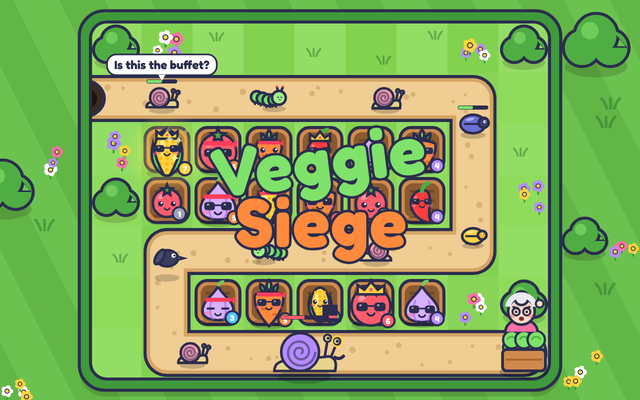
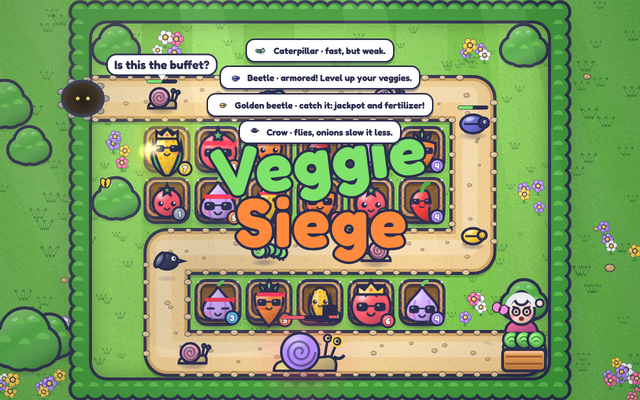
veggie-siege v0.3
Claude-Session: https://claude.ai/code/session_01V6K2mJFUTQWF5CmgrXF8xu

diff --git a/veggie-siege/index.html b/veggie-siege/index.html
@@ -1,5 +1,5 @@
 <!doctype html>
-<!-- Veggie Siege v0.2 -->
+<!-- Veggie Siege v0.3 -->
 <html lang="en">
 <head>
 <meta charset="utf-8">
@@ -194,7 +194,7 @@ button{font:inherit;color:inherit;border:none;background:none;cursor:pointer}
 <div id="load"><b>Veggie Siege</b><i></i><small id="ver0" style="color:#fff"></small></div>
 <script>
 'use strict';
-const VERSION='0.2';
+const VERSION='0.3';
 const $=id=>document.getElementById(id);
 const cv=$('c'),ctx=cv.getContext('2d');
 const TAU=Math.PI*2;
@@ -1216,7 +1216,14 @@ function bx(x){return L.bx+x*L.T}function by(y){return L.by+y*L.T}
 
 function rr(c,x,y,w,h,r){c.beginPath();c.moveTo(x+r,y);c.arcTo(x+w,y,x+w,y+h,r);c.arcTo(x+w,y+h,x,y+h,r);c.arcTo(x,y+h,x,y,r);c.arcTo(x,y,x+w,y,r);c.closePath()}
 function circ(c,x,y,r){c.beginPath();c.arc(x,y,Math.max(.1,r),0,TAU)}
-function fillO(c,col,lw){c.fillStyle=col;c.fill();if(lw){c.lineWidth=lw;c.strokeStyle=INK;c.stroke()}}
+const SHADE={r:0,lite:false};
+function fillO(c,col,lw){c.fillStyle=col;c.fill();const r=SHADE.r;
+  if(r>0&&!SHADE.lite){c.save();c.clip();
+    const g=c.createLinearGradient(-r*.6,-r*.95,r*.5,r*.95);g.addColorStop(0,'rgba(255,255,255,.42)');g.addColorStop(.34,'rgba(255,255,255,.06)');g.addColorStop(.56,'rgba(0,0,0,0)');g.addColorStop(1,'rgba(60,20,70,.42)');
+    c.fillStyle=g;c.fillRect(-r*3,-r*3,r*6,r*6);
+    const s2=c.createRadialGradient(-r*.3,-r*.42,0,-r*.3,-r*.42,r*.42);s2.addColorStop(0,'rgba(255,255,255,.5)');s2.addColorStop(1,'rgba(255,255,255,0)');c.fillStyle=s2;c.fillRect(-r*.75,-r*.85,r*.9,r*.9);
+    c.restore()}
+  if(lw){c.lineWidth=lw;c.strokeStyle=INK;c.stroke()}}
 function hash(i){return mulberry(i*2654435761>>>0)()}
 
 /* ---------- background ---------- */
@@ -1299,14 +1306,14 @@ function face(c,x,y,r,blink,opt){opt=opt||{};const ex=r*.36,ey=0,er=r*.15;
   if(opt.sad){c.arc(x,y+er*3,er*1.1,Math.PI*1.15,Math.PI*1.85)}else if(opt.open){c.fillStyle='#7a2b3a';c.ellipse(x,y+er*1.9,er*.9,er*1.1,0,0,TAU);c.fill()}else c.arc(x,y+er*1.2,er*1.1,.15*Math.PI,.85*Math.PI);c.stroke()}
 
 /* ---------- veggies ---------- */
-function drawVeg(c,t,l,x,y,s,time,o){o=o||{};const lw=Math.max(1.8,s*.05);const sc=(.64+.052*l)*(o.pop!==undefined?easeBack(o.pop):1);const r=s*sc*.5;
+function drawVegRaw(c,t,l,x,y,s,time,o){o=o||{};const lw=Math.max(1.8,s*.05);const sc=(.64+.052*l)*(o.pop!==undefined?easeBack(o.pop):1);const r=s*sc*.5;const keepSh=SHADE.r;SHADE.r=r;
   const bob=Math.sin(time*3+(o.ph||0))*r*.04,sq=o.att>0?1-o.att*.6:0;const sy=1-sq*.25,sx=1+sq*.2;
   c.save();c.translate(x,y+r*.15);
   // shadow
-  c.fillStyle='rgba(0,0,0,.18)';c.beginPath();c.ellipse(0,r*.78,r*.8,r*.24,0,0,TAU);c.fill();
-  if(l>=7){const g=c.createRadialGradient(0,0,r*.3,0,0,r*1.6);g.addColorStop(0,'rgba(255,230,90,.55)');g.addColorStop(1,'rgba(255,230,90,0)');c.fillStyle=g;circ(c,0,0,r*1.6+Math.sin(time*4)*r*.1);c.fill()}
+  if(!o.noShadow){c.fillStyle='rgba(0,0,0,.18)';c.beginPath();c.ellipse(0,r*.78,r*.8,r*.24,0,0,TAU);c.fill()}
+  if(l>=7&&!o.noGlow){const g=c.createRadialGradient(0,0,r*.3,0,0,r*1.6);g.addColorStop(0,'rgba(255,230,90,.55)');g.addColorStop(1,'rgba(255,230,90,0)');c.fillStyle=g;circ(c,0,0,r*1.6+Math.sin(time*4)*r*.1);c.fill()}
   c.translate(0,bob);c.scale(sx,sy);
-  const blink=((time+(o.ph||0)*3)%4.2)<.12;const fo={glasses:l>=4,angry:o.att>0&&l<4};
+  const blink=o.blink!=null?o.blink:((time+(o.ph||0)*3)%4.2)<.12;const fo={glasses:l>=4,angry:o.att>0&&l<4};
   let fy=0,fr=r;
   if(t==='carrot'){c.beginPath();c.moveTo(-r*.62,-r*.45);c.quadraticCurveTo(-r*.7,r*.2,0,r*.92);c.quadraticCurveTo(r*.7,r*.2,r*.62,-r*.45);c.quadraticCurveTo(0,-r*.72,-r*.62,-r*.45);fillO(c,'#ff8a3d',lw);
     c.strokeStyle='#d9651f';c.lineWidth=lw*.8;c.beginPath();c.moveTo(-r*.35,r*.15);c.lineTo(-r*.1,r*.18);c.moveTo(r*.15,r*.42);c.lineTo(r*.33,r*.38);c.stroke();
@@ -1331,7 +1338,7 @@ function drawVeg(c,t,l,x,y,s,time,o){o=o||{};const lw=Math.max(1.8,s*.05);const 
   if(t==='sun'&&l>=4){fo.glasses=1}
   face(c,0,fy,fr,blink,fo);
   if(l>=6){crown(c,0,fy-fr*(t==='sun'?.55:.75)-(t==='carrot'?r*.25:0),fr*.55,lw)}
-  c.restore();
+  c.restore();SHADE.r=keepSh;
   if(!o.noBadge){const bxp=x+r*.7,byp=y+r*.75;circ(c,bxp,byp,s*.13);fillO(c,LVC[l-1],lw*.8);c.fillStyle='#fff';c.font='700 '+Math.round(s*.17)+'px Fredoka,sans-serif';c.textAlign='center';c.textBaseline='middle';c.fillText(l,bxp,byp+s*.01)}}
 function easeBack(t){t=clamp(t,0,1);const s=1.9;return 1+(s+1)*Math.pow(t-1,3)+s*Math.pow(t-1,2)}
 function leaf(c,x,y,len,a,lw,col){c.save();c.translate(x,y);c.rotate(a);c.beginPath();c.moveTo(0,0);c.quadraticCurveTo(len*.4,-len*.5,0,-len);c.quadraticCurveTo(-len*.4,-len*.5,0,0);fillO(c,col,lw);c.restore()}
@@ -1341,13 +1348,12 @@ function crown(c,x,y,r,lw){c.beginPath();c.moveTo(x-r,y+r*.4);c.lineTo(x-r,y-r*.
   c.fillStyle='#ff5d6c';circ(c,x,y+r*.05,r*.13);c.fill()}
 
 /* ---------- pests ---------- */
-function drawPest(c,p,s,time){const d=PEST[p.k];let r=d.r*s;if(p.boss)r*=1+(p.mhp>2e3?.15:0);const lw=Math.max(1.8,s*.05);const x=bx(p.x),y=by(p.y);
+function drawPestRaw(c,p,s,time){const d=PEST[p.k];let r=d.r*s;if(p.boss)r*=1+(p.mhp>2e3?.15:0);const lw=Math.max(1.8,s*.05);const x=bx(p.x),y=by(p.y);
   const w=Math.sin(time*8*p.spd+p.ph);c.save();c.translate(x,y);
   if(p.under){c.fillStyle='#8a5a30';c.beginPath();c.ellipse(0,r*.3,r*.9,r*.45,0,Math.PI,0);fillO(c,'#9b6a3d',lw);for(let i=0;i<3;i++){c.fillStyle='#6e4524';circ(c,(i-1)*r*.4,r*.05+Math.sin(time*10+i)*r*.08,r*.1);c.fill()}c.restore();return}
   if(p.hit>0){c.globalAlpha=1}
   const fl=p.dir<0?-1:1;
   // shadow
-  c.fillStyle='rgba(0,0,0,.18)';c.beginPath();c.ellipse(0,r*.75,r*.85,r*.25,0,0,TAU);c.fill();
   if(p.fly){c.translate(0,-r*.5+Math.sin(time*6+p.ph)*r*.12)}
   c.scale(fl,1);
   const flash=p.hit>0;
@@ -1409,7 +1415,7 @@ function drawCrate(c,time){const [ex,ey]=R.P.end;const x=bx(ex+.5),y=by(ey+.5),s
   rr(c,x-s*.42,y-s*.08,s*.84,s*.42,s*.08);fillO(c,'#d08a4c',lw);c.strokeStyle='#a8682f';c.lineWidth=lw*.7;c.beginPath();c.moveTo(x-s*.36,y+s*.12);c.lineTo(x+s*.36,y+s*.12);c.stroke();
   // oma
   let ox=x+s*.55,oy=y-s*.55;if(ex>=COLS-2){ox=x-s*.05;oy=y-s*.8}else if(ey===0){ox=x+s*.62;oy=y+s*.05}const mad=R.omaMad>0;drawOma(c,ox,oy,s*.42,time,mad,R.omaHappy>0)}
-function drawOma(c,x,y,r,time,mad,happy){const lw=Math.max(1.8,r*.12);const bob=Math.sin(time*(mad?14:2))*r*(mad?.06:.03);c.save();c.translate(x,y+bob);
+function drawOmaRaw(c,x,y,r,time,mad,happy){const lw=Math.max(1.8,r*.12);const bob=Math.sin(time*(mad?14:2))*r*(mad?.06:.03);c.save();c.translate(x,y+bob);
   c.beginPath();c.ellipse(0,r*.95,r*.75,r*.6,0,Math.PI,0);fillO(c,'#ff6fa8',lw);// cardigan
   circ(c,0,0,r*.62);fillO(c,'#ffd9c2',lw);
   circ(c,0,-r*.62,r*.32);fillO(c,'#e9e9f2',lw);// bun
@@ -1482,6 +1488,248 @@ function drawWorld(dt){const c=ctx;c.setTransform(L.dpr,0,0,L.dpr,0,0);
   c.restore()}
 function drawMest(c,x,y,r){const lw=Math.max(2,r*.1);c.beginPath();c.moveTo(x-r*.7,y+r*.6);c.quadraticCurveTo(x-r*.8,y-r*.4,x,y-r*.7);c.quadraticCurveTo(x+r*.8,y-r*.4,x+r*.7,y+r*.6);c.closePath();fillO(c,'#c9874a',lw);
   c.fillStyle='#fff6c2';rr(c,x-r*.45,y-r*.15,r*.9,r*.4,r*.1);c.fill();c.fillStyle='#4fae43';leaf(c,x,y-r*.05,r*.3,0,lw*.6,'#5fd06a');sparkle(c,x+r*.6,y-r*.6,r*.25)}
+
+/* ================= GFX v0.3: light, depth and a living garden =================
+   Overrides the flat v0.2 drawing with shaded, layered art. Heavy work is cached:
+   the garden is painted once per layout, every veggie pose is painted once into a sprite. */
+function hexRgb(h){h=String(h).replace('#','');return[parseInt(h.slice(0,2),16),parseInt(h.slice(2,4),16),parseInt(h.slice(4,6),16)]}
+function mixc(a,b,t){const A=hexRgb(a),B=hexRgb(b);return 'rgb('+A.map((v,i)=>Math.round(v+(B[i]-v)*t)).join(',')+')'}
+function softShadow(c,x,y,rx,ry,a){if(rx<=0)return;c.save();c.translate(x,y);c.scale(1,ry/rx);const g=c.createRadialGradient(0,0,0,0,0,rx);
+  g.addColorStop(0,'rgba(30,25,60,'+a+')');g.addColorStop(.55,'rgba(30,25,60,'+(a*.6)+')');g.addColorStop(1,'rgba(30,25,60,0)');c.fillStyle=g;c.beginPath();c.arc(0,0,rx,0,TAU);c.fill();c.restore()}
+let NOISE=null;
+function noisePat(c,amt){if(!NOISE){NOISE=document.createElement('canvas');NOISE.width=NOISE.height=128;const x=NOISE.getContext('2d');const r=mulberry(77);
+  for(let i=0;i<1400;i++){const v=r();x.fillStyle=v<.5?'rgba(255,255,255,'+(.05+r()*.08)+')':'rgba(0,30,10,'+(.05+r()*.08)+')';x.fillRect(Math.floor(r()*128),Math.floor(r()*128),1+Math.floor(r()*2),1+Math.floor(r()*2))}}
+  return c.createPattern(NOISE,'repeat')}
+const GFX={lite:false,acc:0,n:0,slow:0};
+
+/* ---------- garden scenery ---------- */
+function drawBush(c,x,y,r,pal,lw){softShadow(c,x,y+r*.72,r*1.1,r*.34,.3);
+  const blobs=[[-.45,.12,.58],[.45,.12,.58],[0,-.28,.72],[-.18,.3,.5],[.22,.32,.48]];
+  const path=()=>{c.beginPath();for(const [a,b,s2] of blobs){c.moveTo(x+a*r+s2*r,y+b*r);c.arc(x+a*r,y+b*r,s2*r,0,TAU)}};
+  path();c.lineWidth=lw*2;c.lineJoin='round';c.strokeStyle=INK;c.stroke();path();c.fillStyle=pal.tree;c.fill();
+  c.save();path();c.clip();const g=c.createLinearGradient(x-r*.6,y-r,x+r*.5,y+r*.9);g.addColorStop(0,'rgba(255,255,220,.38)');g.addColorStop(.45,'rgba(255,255,255,0)');g.addColorStop(1,'rgba(0,30,25,.38)');
+  c.fillStyle=g;c.fillRect(x-r*2,y-r*2,r*4,r*4);
+  c.fillStyle=pal.tree2;for(const [a,b,s2] of [[-.25,-.55,.26],[.25,-.62,.2],[-.62,-.02,.2],[.55,-.1,.2],[0,.05,.18]]){c.beginPath();c.arc(x+a*r,y+b*r,s2*r,Math.PI,0);c.fill()}
+  c.fillStyle='rgba(255,255,255,.35)';for(const [a,b] of [[-.3,-.7],[.2,-.75]]){c.beginPath();c.ellipse(x+a*r,y+b*r,r*.1,r*.05,-.4,0,TAU);c.fill()}
+  c.restore();
+  if(pal.snow){c.fillStyle='#fff';c.beginPath();c.ellipse(x,y-r*.86,r*.55,r*.2,0,0,TAU);c.fill();c.beginPath();c.ellipse(x-r*.5,y-r*.32,r*.3,r*.12,0,0,TAU);c.fill()}
+  else if(pal.leaves){[[.3,-.1,'#ffd23f'],[-.5,.2,'#ff8a3d'],[.05,-.5,'#ff5d6c']].forEach(([a,b,col])=>{c.fillStyle=col;c.beginPath();c.ellipse(x+a*r,y+b*r,r*.12,r*.07,a,0,TAU);c.fill()})}
+  else if(!pal.night&&(Math.floor(x*7+y*3)%3===0)){[[.35,-.05],[-.4,.15],[.05,-.45]].forEach(([a,b])=>{circ(c,x+a*r,y+b*r,r*.075);c.fillStyle='#ff5d6c';c.fill();c.lineWidth=Math.max(1,lw*.4);c.strokeStyle=INK;c.stroke();circ(c,x+a*r-r*.025,y+b*r-r*.025,r*.022);c.fillStyle='#fff';c.fill()})}}
+function drawFlowers(c,x,y,r,pal,rnd){for(let i=0;i<4;i++){const fx=x+(rnd()-.5)*r*1.6,fy=y+(rnd()-.5)*r*1.4,col=pal.fl[Math.floor(rnd()*pal.fl.length)],s=r*(.15+rnd()*.06);
+  softShadow(c,fx,fy+s*2.3,s*1.1,s*.35,.22);
+  c.strokeStyle='#3f9a3c';c.lineWidth=s*.45;c.lineCap='round';c.beginPath();c.moveTo(fx,fy);c.quadraticCurveTo(fx-s*.3,fy+s*1.2,fx,fy+s*2.3);c.stroke();
+  c.fillStyle='#5fd06a';c.beginPath();c.ellipse(fx+s*.45,fy+s*1.5,s*.45,s*.2,-.5,0,TAU);c.fill();
+  for(let k=0;k<5;k++){const a=k/5*TAU+i;const px=fx+Math.cos(a)*s,py=fy+Math.sin(a)*s;circ(c,px,py,s*.72);c.fillStyle=col;c.fill();c.lineWidth=s*.14;c.strokeStyle='rgba(43,45,78,.55)';c.stroke()}
+  for(let k=0;k<5;k++){const a=k/5*TAU+i;circ(c,fx+Math.cos(a)*s*.95-s*.15,fy+Math.sin(a)*s*.95-s*.18,s*.22);c.fillStyle='rgba(255,255,255,.55)';c.fill()}
+  const g=c.createRadialGradient(fx-s*.2,fy-s*.2,0,fx,fy,s*.65);g.addColorStop(0,'#fff3a0');g.addColorStop(1,'#f2a81f');circ(c,fx,fy,s*.6);c.fillStyle=g;c.fill();c.lineWidth=s*.22;c.strokeStyle=INK;c.stroke()}}
+function drawTuft(c,x,y,r,pal){const dark=pal.night?'#4d7f7a':pal.snow?'#b9cbe4':'rgba(40,110,40,.55)',light=pal.night?'#7fb3ac':pal.snow?'#ffffff':'rgba(200,255,150,.6)';
+  c.lineCap='round';for(let k=-1;k<=1;k++){c.strokeStyle=dark;c.lineWidth=Math.max(1.5,r*.2);c.beginPath();c.moveTo(x+k*r*.25,y+r*.3);c.quadraticCurveTo(x+k*r*.35,y-r*.1,x+k*r*.62,y-r*.38);c.stroke();
+    c.strokeStyle=light;c.lineWidth=Math.max(.8,r*.08);c.beginPath();c.moveTo(x+k*r*.27,y+r*.15);c.quadraticCurveTo(x+k*r*.34,y-r*.05,x+k*r*.5,y-r*.25);c.stroke()}}
+function drawPebble(c,x,y,r,col){softShadow(c,x,y+r*.5,r*1.2,r*.45,.25);c.beginPath();c.ellipse(x,y,r,r*.72,0,0,TAU);c.fillStyle=col;c.fill();c.lineWidth=Math.max(1,r*.22);c.strokeStyle='rgba(43,45,78,.6)';c.stroke();
+  c.fillStyle='rgba(255,255,255,.45)';c.beginPath();c.ellipse(x-r*.3,y-r*.28,r*.35,r*.18,-.3,0,TAU);c.fill()}
+
+function buildBg(){const key=L.W+'x'+L.H+'_'+L.T+'_'+L.bx+'_'+L.by+'_'+(R?R.fi:0)+'_'+L.dpr;if(bg&&bgKey===key)return;bgKey=key;
+  if(!bg)bg=document.createElement('canvas');bg.width=Math.round(L.W*L.dpr);bg.height=Math.round(L.H*L.dpr);
+  const c=bg.getContext('2d');c.setTransform(L.dpr,0,0,L.dpr,0,0);c.clearRect(0,0,L.W,L.H);const fi=R?R.fi:0,pal=PAL[fi],T=L.T,lw=Math.max(2,T*.06);
+  const F=FIELDS[fi],P=R?R.P:parseField(F);const X=L.bx,Y=L.by,W=COLS*T,H=ROWS*T;
+  let seed=fi*1000+7;const rnd=()=>{seed++;return hash(seed)};
+  // ---- outer ground: light falloff, mowing stripes, fine texture
+  let g=c.createRadialGradient(L.W*.35,L.H*.2,0,L.W*.5,L.H*.5,Math.max(L.W,L.H)*.85);g.addColorStop(0,mixc(pal.out,'#ffffff',.12));g.addColorStop(1,mixc(pal.out,'#000000',.12));
+  c.fillStyle=g;c.fillRect(0,0,L.W,L.H);
+  const st=Math.max(30,T*.9);c.save();c.globalAlpha=.55;for(let x=-L.H;x<L.W;x+=st*2){c.fillStyle=pal.out2;c.beginPath();c.moveTo(x,0);c.lineTo(x+st,0);c.lineTo(x+st+L.H*.5,L.H);c.lineTo(x+L.H*.5,L.H);c.fill()}c.restore();
+  c.fillStyle=noisePat(c);c.fillRect(0,0,L.W,L.H);
+  const inBoard=(x,y,m)=>x>X-T*m&&x<X+W+T*m&&y>Y-T*m&&y<Y+H+T*m;
+  for(let i=0;i<260;i++){const x=rnd()*L.W,y=rnd()*L.H;if(inBoard(x,y,.5))continue;drawTuft(c,x,y,T*(.14+rnd()*.12),pal)}
+  for(let i=0;i<26;i++){const x=rnd()*L.W,y=rnd()*L.H;if(inBoard(x,y,.5))continue;drawPebble(c,x,y,T*(.05+rnd()*.05),pal.peb)}
+  const deco=[];for(let i=0;i<80;i++){const x=rnd()*L.W,y=rnd()*L.H;if(inBoard(x,y,.7))continue;deco.push([y,x,rnd(),rnd()])}deco.sort((a,b)=>a[0]-b[0]);
+  for(const [y,x,k,s2] of deco){if(k<.38)drawBush(c,x,y,T*(.36+s2*.3),pal,lw);else if(k<.72)drawFlowers(c,x,y,T*.42,pal,rnd)}
+  // ---- board: hedge with leafy edge and a soft drop shadow
+  const hedge=pal.snow?'#e6eef9':pal.night?'#244a44':'#3f9a3c',hedgeL=pal.snow?'#ffffff':pal.night?'#3a6a62':'#5fbf4f';
+  c.save();c.shadowColor='rgba(20,30,40,.4)';c.shadowBlur=T*.7;c.shadowOffsetY=T*.22;rr(c,X-T*.26,Y-T*.26,W+T*.52,H+T*.52,T*.5);c.fillStyle=hedge;c.fill();c.restore();
+  const bumps=[];const per=(x0,y0,x1,y1)=>{const len=Math.hypot(x1-x0,y1-y0),n=Math.ceil(len/(T*.3));for(let i=0;i<=n;i++){bumps.push([lerp(x0,x1,i/n),lerp(y0,y1,i/n)])}};
+  const o=T*.2;per(X-o,Y-o,X+W+o,Y-o);per(X+W+o,Y-o,X+W+o,Y+H+o);per(X+W+o,Y+H+o,X-o,Y+H+o);per(X-o,Y+H+o,X-o,Y-o);
+  c.beginPath();for(const [bx2,by2] of bumps){c.moveTo(bx2+T*.17,by2);c.arc(bx2,by2,T*.17,0,TAU)}c.lineWidth=lw*2;c.strokeStyle=INK;c.stroke();
+  rr(c,X-T*.24,Y-T*.24,W+T*.48,H+T*.48,T*.45);c.fillStyle=hedge;c.fill();
+  c.beginPath();for(const [bx2,by2] of bumps){c.moveTo(bx2+T*.17,by2);c.arc(bx2,by2,T*.17,0,TAU)}c.fillStyle=hedge;c.fill();
+  c.fillStyle=hedgeL;for(const [bx2,by2] of bumps){c.beginPath();c.arc(bx2-T*.03,by2-T*.04,T*.1,Math.PI*1.05,Math.PI*1.95);c.fill()}
+  // ---- lawn
+  c.save();rr(c,X,Y,W,H,T*.32);c.clip();
+  g=c.createLinearGradient(X,Y,X+W*.6,Y+H);g.addColorStop(0,mixc(pal.g1,'#ffffff',.04));g.addColorStop(1,mixc(pal.g1,'#000000',.1));c.fillStyle=g;c.fillRect(X,Y,W,H);
+  c.globalAlpha=1;for(let x=0;x<COLS;x++){if(x%2){c.fillStyle=mixc(pal.g2,'#000000',.05);c.fillRect(X+x*T,Y,T,H)}}c.globalAlpha=1;
+  c.fillStyle=noisePat(c);c.fillRect(X,Y,W,H);
+  for(let i=0;i<COLS*ROWS*3;i++){const x=X+rnd()*W,y=Y+rnd()*H;drawTuft(c,x,y,T*(.09+rnd()*.07),pal)}
+  // water tiles
+  for(let y=0;y<ROWS;y++)for(let x=0;x<COLS;x++){const ch=P.g[y*COLS+x];if(ch!=='W')continue;const cx=X+(x+.5)*T,cy=Y+(y+.5)*T;seed=fi*999+y*31+x*7;
+    const isW=(xx,yy)=>xx>=0&&yy>=0&&xx<COLS&&yy<ROWS&&P.g[yy*COLS+xx]==='W';const m=T*.06;const l=isW(x-1,y)?-1:m,r2=isW(x+1,y)?-1:m,tp=isW(x,y-1)?-1:m,bt=isW(x,y+1)?-1:m;
+    rr(c,X+x*T+l,Y+y*T+tp,T-l-r2,T-tp-bt,(l<0||r2<0||tp<0||bt<0)?T*.12:T*.3);const wg=c.createLinearGradient(0,Y+y*T,0,Y+(y+1)*T);wg.addColorStop(0,'#3aa8f0');wg.addColorStop(1,'#6fd3ff');c.fillStyle=wg;c.fill();
+    c.strokeStyle='rgba(255,255,255,.5)';c.lineWidth=T*.025;c.lineCap='round';for(let k=0;k<2;k++){const yy=cy-T*.15+k*T*.25;c.beginPath();c.moveTo(cx-T*.25+k*T*.1,yy);c.quadraticCurveTo(cx,yy-T*.05,cx+T*.2,yy);c.stroke()}
+    if(rnd()<.5){const px=cx+T*.16,py=cy+T*.14;c.beginPath();c.arc(px,py,T*.14,.4,TAU-.1);c.lineTo(px,py);c.closePath();c.fillStyle='#5fd06a';c.fill();c.lineWidth=lw*.6;c.strokeStyle=INK;c.stroke();if(rnd()<.6){circ(c,px-T*.04,py-T*.03,T*.045);c.fillStyle='#ff9fd0';c.fill()}}}
+  // inner shadow along the hedge
+  c.save();c.shadowColor='rgba(0,30,10,.45)';c.shadowBlur=T*.35;rr(c,X-T*.1,Y-T*.1,W+T*.2,H+T*.2,T*.4);c.lineWidth=T*.2;c.strokeStyle=hedge;c.stroke();c.restore();
+  // ---- path: drop shadow, outline, edge, sand, texture, kerb stones
+  for(const pth of P.paths){const pts=pth.pts.map(p=>[X+p[0]*T,Y+p[1]*T]);c.lineCap='round';c.lineJoin='round';
+    const stroke=(w,col,dx,dy)=>{c.beginPath();c.moveTo(pts[0][0]+(dx||0),pts[0][1]+(dy||0));for(const p of pts)c.lineTo(p[0]+(dx||0),p[1]+(dy||0));c.lineWidth=w;c.strokeStyle=col;c.stroke()};
+    c.save();c.globalAlpha=.25;stroke(T*.86,'#1e2a1a',0,T*.08);c.restore();
+    stroke(T*.8+lw*2,INK);stroke(T*.8,pal.pathE);stroke(T*.68,pal.path);
+    c.save();c.globalAlpha=.6;stroke(T*.68,noisePat(c));c.restore();
+    c.save();c.globalAlpha=.25;stroke(T*.3,'#ffffff',-T*.06,-T*.08);c.restore()}
+  for(const pth of P.paths){for(let s=.3;s<pth.len;s+=.42){const pp=pathPos(pth,s);seed=Math.floor(s*100)+fi;const ox=(rnd()-.5)*T*.4,oy=(rnd()-.5)*T*.4;
+      drawPebble(c,X+pp[0]*T+ox,Y+pp[1]*T+oy,T*(.025+rnd()*.03),pal.peb)}
+    for(let s=.7;s<pth.len-.4;s+=.34){const a=pathPos(pth,s-.05),b=pathPos(pth,s+.05);let dx=b[0]-a[0],dy=b[1]-a[1];const d=Math.hypot(dx,dy)||1;dx/=d;dy/=d;
+      for(const sg of [-1,1]){const px=X+(a[0]+b[0])/2*T-dy*sg*T*.41,py=Y+(a[1]+b[1])/2*T+dx*sg*T*.41;let dmin=9;for(const q of P.paths)for(let k=1;k<q.pts.length;k++){const ax=X+q.pts[k-1][0]*T,ay=Y+q.pts[k-1][1]*T,bx3=X+q.pts[k][0]*T,by3=Y+q.pts[k][1]*T;const vx=bx3-ax,vy=by3-ay,l2=vx*vx+vy*vy||1;const tt=clamp(((px-ax)*vx+(py-ay)*vy)/l2,0,1);dmin=Math.min(dmin,Math.hypot(px-ax-vx*tt,py-ay-vy*tt)/T)}if(dmin<.38)continue;
+        seed=Math.floor(s*1000)+sg;drawPebble(c,px,py,T*(.055+rnd()*.02),mixc(pal.peb,'#ffffff',.2))}}}
+  // ---- planters: wooden box with depth, grain, nails and crumbly soil
+  for(const i of P.beds){const x=i%COLS,y=Math.floor(i/COLS);const px=X+x*T,py=Y+y*T,m=T*.07,d=T*.09,bw=T-2*m,bh=T-2*m-d;
+    softShadow(c,px+T*.5,py+T*.9,T*.52,T*.16,.35);
+    rr(c,px+m,py+m+d,bw,bh,T*.2);c.fillStyle=mixc(pal.wood,'#000000',.32);c.fill();c.lineWidth=lw;c.strokeStyle=INK;c.stroke();
+    rr(c,px+m,py+m,bw,bh,T*.2);g=c.createLinearGradient(0,py+m,0,py+m+bh);g.addColorStop(0,mixc(pal.wood,'#ffffff',.25));g.addColorStop(1,pal.wood);c.fillStyle=g;c.fill();c.lineWidth=lw;c.strokeStyle=INK;c.stroke();
+    c.save();rr(c,px+m,py+m,bw,bh,T*.2);c.clip();c.strokeStyle=mixc(pal.wood,'#000000',.2);c.lineWidth=Math.max(1,T*.015);for(let k=0;k<5;k++){const yy=py+m+bh*(k+.5)/5;c.beginPath();c.moveTo(px+m,yy);c.bezierCurveTo(px+T*.35,yy-T*.02,px+T*.6,yy+T*.02,px+T-m,yy);c.stroke()}c.restore();
+    const ix=px+m*2.4,iy=py+m*2.2,iw=T-4.8*m,ih=bh-m*2.6;rr(c,ix,iy,iw,ih,T*.14);g=c.createRadialGradient(ix+iw*.5,iy+ih*.6,0,ix+iw*.5,iy+ih*.5,iw*.7);g.addColorStop(0,mixc(pal.soil,'#ffffff',.08));g.addColorStop(1,pal.soil2);c.fillStyle=g;c.fill();
+    c.save();rr(c,ix,iy,iw,ih,T*.14);c.clip();c.fillStyle='rgba(0,0,0,.28)';c.fillRect(ix,iy,iw,T*.06);seed=i*17+fi;
+      for(let k=0;k<12;k++){circ(c,ix+rnd()*iw,iy+T*.06+rnd()*(ih-T*.06),T*(.012+rnd()*.018));c.fillStyle=rnd()<.5?'rgba(0,0,0,.22)':'rgba(255,230,200,.18)';c.fill()}c.restore();
+    c.lineWidth=Math.max(1,lw*.6);c.strokeStyle=INK;rr(c,ix,iy,iw,ih,T*.14);c.stroke();
+    c.fillStyle='#d9dbe8';for(const [nx,ny] of [[px+m*1.6,py+m*1.4],[px+T-m*1.6,py+m*1.4]]){circ(c,nx,ny,T*.022);c.fill()}
+    if(pal.snow){c.fillStyle='rgba(255,255,255,.92)';c.beginPath();c.ellipse(px+T*.32,py+m*1.2,T*.17,T*.05,0,0,TAU);c.fill();c.beginPath();c.ellipse(px+T*.68,py+m*1.1,T*.1,T*.04,0,0,TAU);c.fill()}}
+  // ---- trees, flowers (y-sorted) and tunnels
+  const tops=[];for(let y=0;y<ROWS;y++)for(let x=0;x<COLS;x++){const ch=P.g[y*COLS+x];if(ch==='T'||ch==='F')tops.push([y,x,ch])}
+  for(const [y,x,ch] of tops){const cx=X+(x+.5)*T,cy=Y+(y+.5)*T;seed=fi*555+y*13+x*3;if(ch==='T')drawBush(c,cx,cy,T*.42,pal,lw);else drawFlowers(c,cx,cy,T*.42,pal,rnd)}
+  if(pal.glass){c.strokeStyle='rgba(255,255,255,.35)';c.lineWidth=T*.06;for(let x=1;x<COLS;x+=2){c.beginPath();c.moveTo(X+x*T,Y);c.lineTo(X+x*T,Y+H);c.stroke()}
+    g=c.createLinearGradient(X,Y,X+W,Y+H);g.addColorStop(0,'rgba(255,255,255,.2)');g.addColorStop(.5,'rgba(255,255,255,0)');g.addColorStop(1,'rgba(255,255,255,.12)');c.fillStyle=g;c.fillRect(X,Y,W,H)}
+  if(pal.night){g=c.createRadialGradient(X+W*.5,Y+H*.4,T,X+W*.5,Y+H*.5,W*.7);g.addColorStop(0,'rgba(120,140,255,.1)');g.addColorStop(1,'rgba(10,10,40,.3)');c.fillStyle=g;c.fillRect(X,Y,W,H)}
+  c.restore();
+  rr(c,X,Y,W,H,T*.32);c.lineWidth=lw;c.strokeStyle=INK;c.stroke();
+  for(const [sx,sy] of P.starts){const p0=P.paths.find(p=>p.pts[1][0]===sx+.5&&p.pts[1][1]===sy+.5)||P.paths[0];const e=p0.pts[0];
+    const ex=X+clamp(e[0],-.15,COLS+.15)*T,ey=Y+clamp(e[1],-.15,ROWS+.15)*T;
+    seed=sx*7+sy;for(let k=0;k<9;k++){const a=k/9*TAU;drawPebble(c,ex+Math.cos(a)*T*.44,ey+Math.sin(a)*T*.38,T*.08,'#a7a29a')}
+    c.beginPath();c.ellipse(ex,ey,T*.4,T*.34,0,0,TAU);g=c.createRadialGradient(ex,ey+T*.05,0,ex,ey,T*.42);g.addColorStop(0,'#0c0806');g.addColorStop(.7,'#2a1d15');g.addColorStop(1,'#4a3424');c.fillStyle=g;c.fill();c.lineWidth=lw;c.strokeStyle=INK;c.stroke();
+    for(const sg of [-1,1]){circ(c,ex+sg*T*.1,ey,T*.035);c.fillStyle='#ffe36b';c.fill()}}
+  // ---- global light: warm sun from the top-left, soft vignette
+  g=c.createRadialGradient(L.W*.18,-L.H*.05,0,L.W*.18,-L.H*.05,Math.max(L.W,L.H)*.9);g.addColorStop(0,pal.night?'rgba(160,180,255,.12)':'rgba(255,248,200,.14)');g.addColorStop(1,'rgba(255,248,200,0)');c.fillStyle=g;c.fillRect(0,0,L.W,L.H);
+  g=c.createRadialGradient(L.W/2,L.H/2,Math.min(L.W,L.H)*.42,L.W/2,L.H/2,Math.max(L.W,L.H)*.78);g.addColorStop(0,'rgba(0,0,0,0)');g.addColorStop(1,pal.night?'rgba(5,5,25,.45)':'rgba(10,40,20,.28)');c.fillStyle=g;c.fillRect(0,0,L.W,L.H)}
+
+/* ---------- veggies: painted once per pose, then reused ---------- */
+const VSPR=new Map();
+function vegSprite(t,l,blink,att,s){const dpr=L.dpr||1;const key=t+l+(blink?'b':'')+(att?'a':'')+'_'+Math.round(s*dpr);let sp=VSPR.get(key);if(sp)return sp;
+  if(VSPR.size>320)VSPR.clear();const pad=s*1.15,sz=Math.ceil(pad*2*dpr);const cv2=document.createElement('canvas');cv2.width=cv2.height=sz;const x=cv2.getContext('2d');x.scale(dpr,dpr);
+  drawVegRaw(x,t,l,pad,pad,s,0,{noBadge:1,noShadow:1,noGlow:1,blink,att:att?1e-4:0,ph:0});sp={c:cv2,sz:sz/dpr,o:pad};VSPR.set(key,sp);return sp}
+function drawVeg(c,t,l,x,y,s,time,o){o=o||{};
+  const pop=o.pop!==undefined?easeBack(o.pop):1,r0=s*(.64+.052*l)*.5,r=r0*pop;
+  if(!o.noShadow)softShadow(c,x,y+r*.95,r*.95,r*.3,.34);
+  if(l>=7&&!o.noGlow){const g=c.createRadialGradient(x,y,r*.2,x,y,r*1.8);g.addColorStop(0,'rgba(255,230,90,.6)');g.addColorStop(1,'rgba(255,230,90,0)');c.fillStyle=g;circ(c,x,y+r*.1,r*1.8+Math.sin(time*4)*r*.12);c.fill()}
+  if(t==='sun'||c!==ctx){drawVegRaw(c,t,l,x,y,s,time,Object.assign({},o,{noShadow:1,noGlow:1}));return}
+  const bob=Math.sin(time*3+(o.ph||0))*r*.04,sq=o.att>0?1-o.att*.6:0,sy=1-sq*.25,sx=1+sq*.2;
+  const blink=((time+(o.ph||0)*3)%4.2)<.12;const sp=vegSprite(t,l,blink,o.att>0,s);
+  c.save();c.translate(x,y+r*.15+bob);c.scale(sx*pop,sy*pop);c.drawImage(sp.c,-sp.o,-sp.o-r0*.15,sp.sz,sp.sz);c.restore();
+  if(!o.noBadge){const lw=Math.max(1.8,s*.05),bxp=x+r*.7,byp=y+r*.75,br=s*.13;circ(c,bxp,byp,br);c.fillStyle=LVC[l-1];c.fill();
+    const g=c.createRadialGradient(bxp-br*.35,byp-br*.45,0,bxp,byp,br);g.addColorStop(0,'rgba(255,255,255,.55)');g.addColorStop(.6,'rgba(255,255,255,0)');g.addColorStop(1,'rgba(0,0,0,.18)');c.fillStyle=g;c.fill();
+    c.lineWidth=lw*.8;c.strokeStyle=INK;c.stroke();c.fillStyle='#fff';c.font='700 '+Math.round(s*.17)+'px Fredoka,sans-serif';c.textAlign='center';c.textBaseline='middle';
+    c.lineWidth=s*.035;c.strokeStyle='rgba(43,45,78,.6)';c.strokeText(l,bxp,byp+s*.01);c.fillText(l,bxp,byp+s*.01)}}
+
+/* ---------- pests, grandma and her crate ---------- */
+function drawPest(c,p,s,time){const d=PEST[p.k];const r=d.r*s*(p.boss&&p.mhp>2e3?1.15:1);
+  if(!p.under)softShadow(c,bx(p.x),by(p.y)+r*.8,r*(p.fly?.75:1),r*(p.fly?.22:.3),p.fly?.16:.32);
+  if(p.boss&&!p.under){const g=c.createRadialGradient(bx(p.x),by(p.y),r*.3,bx(p.x),by(p.y),r*1.9);g.addColorStop(0,'rgba(255,80,120,.22)');g.addColorStop(1,'rgba(255,80,120,0)');c.fillStyle=g;circ(c,bx(p.x),by(p.y),r*1.9);c.fill()}
+  const keep=SHADE.r;SHADE.r=r;SHADE.lite=GFX.lite;try{drawPestRaw(c,p,s,time)}finally{SHADE.r=keep;SHADE.lite=false}}
+function drawOma(c,x,y,r,time,mad,happy){const keep=SHADE.r;c.save();c.translate(x,y);SHADE.r=r;try{drawOmaRaw(c,0,0,r,time,mad,happy)}finally{SHADE.r=keep;c.restore()}}
+function drawCrate(c,time){const [ex,ey]=R.P.end;const x=bx(ex+.5),y=by(ey+.5),s=L.T,lw=Math.max(2,s*.055);
+  softShadow(c,x,y+s*.36,s*.55,s*.17,.38);
+  const n=Math.min(6,Math.ceil(R.lives/Math.max(1,R.lives0)*6));
+  for(let i=0;i<n;i++){const lx=x+(i%3-1)*s*.24,ly=y-s*.12-Math.floor(i/3)*s*.15,lr=s*.17;
+    circ(c,lx,ly,lr);const g=c.createRadialGradient(lx-lr*.35,ly-lr*.4,0,lx,ly,lr);g.addColorStop(0,'#d4ffb0');g.addColorStop(.55,'#7ee26b');g.addColorStop(1,'#3f9a3c');c.fillStyle=g;c.fill();c.lineWidth=lw*.8;c.strokeStyle=INK;c.stroke();
+    c.strokeStyle='#3f9a3c';c.lineWidth=lw*.55;c.beginPath();c.arc(lx,ly+s*.03,s*.09,Math.PI*1.1,Math.PI*1.9);c.stroke();c.beginPath();c.arc(lx,ly+s*.07,s*.05,Math.PI*1.15,Math.PI*1.85);c.stroke()}
+  rr(c,x-s*.42,y-s*.08,s*.84,s*.42,s*.08);const g=c.createLinearGradient(0,y-s*.08,0,y+s*.34);g.addColorStop(0,'#f0a965');g.addColorStop(1,'#b8733a');c.fillStyle=g;c.fill();c.lineWidth=lw;c.strokeStyle=INK;c.stroke();
+  c.strokeStyle='#8f5527';c.lineWidth=lw*.6;c.beginPath();c.moveTo(x-s*.36,y+s*.06);c.lineTo(x+s*.36,y+s*.06);c.moveTo(x-s*.36,y+s*.2);c.lineTo(x+s*.36,y+s*.2);c.stroke();
+  c.fillStyle='rgba(255,255,255,.3)';rr(c,x-s*.38,y-s*.05,s*.76,s*.05,s*.02);c.fill();
+  let ox=x+s*.55,oy=y-s*.55;if(ex>=COLS-2){ox=x-s*.05;oy=y-s*.8}else if(ey===0){ox=x+s*.62;oy=y+s*.05}
+  softShadow(c,ox,oy+s*.62,s*.32,s*.1,.25);drawOma(c,ox,oy,s*.42,time,R.omaMad>0,R.omaHappy>0)}
+
+/* ---------- projectiles ---------- */
+function drawShot(c,s){const X=bx(s.x),Y=by(s.y),T=L.T,lw=Math.max(1.5,T*.04);
+  if(s.k==='dart'){c.save();c.translate(X,Y);c.rotate(s.ang||0);const g=c.createLinearGradient(-T*.55,0,-T*.1,0);g.addColorStop(0,'rgba(255,200,140,0)');g.addColorStop(1,'rgba(255,220,170,.75)');
+    c.fillStyle=g;c.beginPath();c.moveTo(-T*.1,-T*.04);c.lineTo(-T*.55,0);c.lineTo(-T*.1,T*.04);c.fill();
+    c.beginPath();c.moveTo(T*.19,0);c.lineTo(-T*.1,-T*.065);c.lineTo(-T*.1,T*.065);c.closePath();const g2=c.createLinearGradient(0,-T*.07,0,T*.07);g2.addColorStop(0,'#ffb877');g2.addColorStop(1,'#e8661f');c.fillStyle=g2;c.fill();c.lineWidth=lw;c.strokeStyle=INK;c.stroke();
+    c.fillStyle='#5fd06a';c.beginPath();c.moveTo(-T*.1,0);c.lineTo(-T*.21,-T*.08);c.lineTo(-T*.17,0);c.lineTo(-T*.21,T*.08);c.closePath();c.fill();c.lineWidth=lw*.7;c.stroke();c.restore()}
+  else if(s.k==='pop'){const a=s.t*14;c.save();c.translate(X,Y);c.rotate(a);for(const [dx,dy,rr2] of [[-.04,-.02,.05],[.035,-.03,.045],[0,.035,.05]]){circ(c,dx*T,dy*T,rr2*T);c.fillStyle='#fffbe6';c.fill();c.lineWidth=lw*.6;c.strokeStyle=INK;c.stroke()}
+    circ(c,0,0,T*.025);c.fillStyle='#ffd23f';c.fill();c.restore()}
+  else if(s.k==='fire'){c.save();c.globalCompositeOperation='lighter';let g=c.createRadialGradient(X,Y,0,X,Y,T*.3);g.addColorStop(0,'rgba(255,190,80,.9)');g.addColorStop(1,'rgba(255,60,20,0)');c.fillStyle=g;circ(c,X,Y,T*.3);c.fill();c.restore();
+    circ(c,X,Y,T*.1);g=c.createRadialGradient(X-T*.03,Y-T*.03,0,X,Y,T*.11);g.addColorStop(0,'#fff6c2');g.addColorStop(.5,'#ffb02e');g.addColorStop(1,'#ff3d3d');c.fillStyle=g;c.fill();
+    if(Math.random()<.5)fx('ember',s.x,s.y,{vy:-.4,vx:fxr(-.3,.3),life:.4,sz:.05})}
+  else if(s.k==='lob'||s.k==='slam'){const rr2=T*(s.k==='lob'?.13:.18);softShadow(c,bx(lerp(s.sx,s.tx,Math.min(1,s.t/s.ft))),by(lerp(s.sy,s.ty,Math.min(1,s.t/s.ft)))+T*.15,rr2,rr2*.35,.25);
+    circ(c,X,Y,rr2);const g=c.createRadialGradient(X-rr2*.35,Y-rr2*.4,0,X,Y,rr2);g.addColorStop(0,s.k==='lob'?'#ffc0c6':'#ffd59a');g.addColorStop(.5,s.k==='lob'?'#ff5d6c':'#ff9a1f');g.addColorStop(1,s.k==='lob'?'#c93545':'#c76a10');c.fillStyle=g;c.fill();
+    c.lineWidth=lw;c.strokeStyle=INK;c.stroke();c.fillStyle=s.k==='lob'?'#4fae43':'#8a5a30';c.beginPath();c.ellipse(X,Y-rr2*.85,rr2*.3,rr2*.15,0,0,TAU);c.fill()}}
+
+/* ---------- effects ---------- */
+function drawFX(c,dt){const T=L.T;for(let i=FX.length-1;i>=0;i--){const f=FX[i];f.t+=dt;if(f.t>=f.life){FX.splice(i,1);continue}const u=f.t/f.life;
+  f.x+=f.vx*dt;f.y+=f.vy*dt;if(f.g)f.vy+=f.g*dt;const X=f.scr?f.x:bx(f.x),Y=f.scr?f.y:by(f.y);
+  if(f.k==='puff'){const rr2=f.sz*T*(1+u*1.2);c.globalAlpha=(1-u)*.9;const g=c.createRadialGradient(X-rr2*.3,Y-rr2*.3,0,X,Y,rr2);g.addColorStop(0,'#ffffff');g.addColorStop(.35,f.col);g.addColorStop(1,'rgba(255,255,255,0)');c.fillStyle=g;circ(c,X,Y,rr2);c.fill();c.globalAlpha=1}
+  else if(f.k==='dot'){c.globalAlpha=1-u;circ(c,X,Y,f.sz*T);c.fillStyle=f.col;c.fill();c.globalAlpha=1}
+  else if(f.k==='ember'){c.save();c.globalCompositeOperation='lighter';c.globalAlpha=1-u;circ(c,X,Y,f.sz*T*(1-u*.5));c.fillStyle='#ffb02e';c.fill();c.restore()}
+  else if(f.k==='ring'){c.save();c.globalAlpha=(1-u);circ(c,X,Y,f.sz*T*(.3+u));c.lineWidth=T*.1*(1-u)+1;c.strokeStyle=f.col;c.shadowColor=f.col;c.shadowBlur=T*.25;c.stroke();c.restore()}
+  else if(f.k==='star'){const s2=f.sz*T*(1-u*.5);c.save();c.globalAlpha=1-u;c.globalCompositeOperation='lighter';const g=c.createRadialGradient(X,Y,0,X,Y,s2*1.8);g.addColorStop(0,'rgba(255,240,150,.8)');g.addColorStop(1,'rgba(255,240,150,0)');c.fillStyle=g;circ(c,X,Y,s2*1.8);c.fill();c.restore();
+    c.globalAlpha=1-u;sparkle(c,X,Y,s2);c.globalAlpha=1}
+  else if(f.k==='shine'){c.save();c.translate(X,Y);c.rotate(f.t*1.5);c.globalCompositeOperation='lighter';c.globalAlpha=(1-u)*.7;for(let k=0;k<10;k++){c.rotate(TAU/10);const g=c.createLinearGradient(0,0,0,-f.sz*T);g.addColorStop(0,f.col);g.addColorStop(1,'rgba(255,255,255,0)');c.fillStyle=g;c.beginPath();c.moveTo(-T*.05,0);c.lineTo(0,-f.sz*T*(.6+u*.6));c.lineTo(T*.05,0);c.fill()}c.restore()}
+  else if(f.k==='leaf'){c.save();c.translate(X,Y);c.rotate(f.rot+f.t*f.spin);c.globalAlpha=u>.7?(1-u)/.3:1;c.scale(1,Math.cos(f.t*9+f.rot));c.beginPath();c.ellipse(0,0,T*f.sz,T*f.sz*.5,0,0,TAU);c.fillStyle=f.col;c.fill();c.lineWidth=Math.max(1,T*.015);c.strokeStyle='rgba(43,45,78,.6)';c.stroke();c.restore()}
+  else if(f.k==='tear'){c.globalAlpha=1-u;c.fillStyle='#7fd3ff';c.beginPath();c.ellipse(X,Y,T*.05,T*.08,0,0,TAU);c.fill();c.fillStyle='rgba(255,255,255,.7)';circ(c,X-T*.015,Y-T*.02,T*.015);c.fill();c.globalAlpha=1}
+  else if(f.k==='txt'){c.globalAlpha=u<.7?1:1-(u-.7)/.3;const sc2=u<.12?easeBack(u/.12):1;const fs=Math.round(f.sz*T*sc2);if(fs<2){c.globalAlpha=1;continue}c.font='700 '+fs+'px Fredoka,sans-serif';c.textAlign='center';c.textBaseline='middle';
+    c.lineWidth=fs*.26;c.strokeStyle=INK;c.lineJoin='round';c.strokeText(f.txt,X,Y+fs*.06);c.strokeText(f.txt,X,Y);c.fillStyle=f.col;c.fillText(f.txt,X,Y);c.globalAlpha=1}
+  else if(f.k==='fly'){const e=u*u;const px=lerp(f.sx,f.tx,e),py=lerp(f.sy,f.ty,e)-Math.sin(u*Math.PI)*T*.8;const rr2=T*.11;
+    c.globalAlpha=.35;circ(c,lerp(f.sx,f.tx,Math.max(0,e-.08)),lerp(f.sy,f.ty,Math.max(0,e-.08))-Math.sin(Math.max(0,u-.06)*Math.PI)*T*.8,rr2*.7);c.fillStyle=f.col;c.fill();c.globalAlpha=1;
+    circ(c,px,py,rr2);const g=c.createRadialGradient(px-rr2*.3,py-rr2*.35,0,px,py,rr2);g.addColorStop(0,'#e0a56a');g.addColorStop(1,f.col);c.fillStyle=g;c.fill();c.lineWidth=2;c.strokeStyle=INK;c.stroke()}}}
+function drawDecals(c,dt){for(let i=DECAL.length-1;i>=0;i--){const d=DECAL[i];d.t+=dt;if(d.t>2.5){DECAL.splice(i,1);continue}const a=Math.min(.5,(2.5-d.t)/1.5*.5);
+  const X=bx(d.x),Y=by(d.y),r=d.r*L.T;c.globalAlpha=a;c.fillStyle=d.col;c.beginPath();for(let k=0;k<12;k++){const ang=k/12*TAU,rr2=r*(k%2?.7:1)*(1+.12*Math.sin(k*2.3));c.lineTo(X+Math.cos(ang)*rr2,Y+Math.sin(ang)*rr2*.7)}c.fill();
+  c.fillStyle='rgba(255,255,255,.35)';c.beginPath();c.ellipse(X-r*.25,Y-r*.18,r*.25,r*.1,0,0,TAU);c.fill();
+  for(let k=0;k<4;k++){circ(c,X+Math.cos(k*1.7)*r*1.25,Y+Math.sin(k*1.7)*r*.85,r*.12);c.fillStyle=d.col;c.fill()}c.globalAlpha=1}}
+// extra juice on top of the existing event effects
+listeners.push((ev,a,b)=>{if(!R||typeof bx!=='function')return;
+  if(ev==='merge'){fx('shine',a.x,a.y,{life:.7,sz:1.1,col:'rgba(255,240,170,.9)'});const cols=['#7ee26b','#ffd23f','#ff8a3d','#ff6fa8','#4cc3ff'];
+    for(let i=0;i<14;i++){const ang=fxr(0,TAU),v=fxr(1.2,3);fx('leaf',a.x,a.y-.1,{vx:Math.cos(ang)*v,vy:Math.sin(ang)*v-2,g:7,life:fxr(.6,.9),sz:fxr(.05,.08),col:cols[i%cols.length],rot:fxr(0,TAU),spin:fxr(-8,8)})}}
+  else if(ev==='kill'){for(let i=0;i<(a.boss?14:5);i++){const ang=fxr(0,TAU),v=fxr(1,2.4);fx('star',a.x,a.y,{vx:Math.cos(ang)*v,vy:Math.sin(ang)*v-1,g:4,life:fxr(.35,.6),sz:fxr(.06,.1)})}
+    if(a.boss)fx('shine',a.x,a.y,{life:1,sz:2.2,col:'rgba(255,230,140,.9)'})}
+  else if(ev==='plant'){for(let i=0;i<6;i++){const ang=fxr(Math.PI*1.1,Math.PI*1.9),v=fxr(1,2);fx('leaf',a.x,a.y+.2,{vx:Math.cos(ang)*v,vy:Math.sin(ang)*v,g:6,life:.5,sz:.04,col:'#8a5a30',rot:fxr(0,TAU),spin:4})}}});
+
+/* ---------- living garden: cloud shadows, butterflies, light shafts ---------- */
+const BUGS=[{p:0},{p:2.1},{p:4.3}];
+function drawAmbient(c){const T=L.T,X=L.bx,Y=L.by,W=COLS*T,H=ROWS*T,pal=PAL[R?R.fi:0];
+  if(!GFX.lite&&!pal.night){c.save();rr(c,X-T*.3,Y-T*.3,W+T*.6,H+T*.6,T*.5);c.clip();for(let i=0;i<2;i++){const cx=X+((gT*.02*T*(i?1.3:1)+i*W*.6)%(W+T*6))-T*3,cy=Y+H*(.3+i*.4);
+      const g=c.createRadialGradient(cx,cy,0,cx,cy,T*2.6);g.addColorStop(0,'rgba(20,40,60,.13)');g.addColorStop(1,'rgba(20,40,60,0)');c.fillStyle=g;c.beginPath();c.ellipse(cx,cy,T*2.8,T*1.6,0,0,TAU);c.fill()}c.restore()}
+  if(!pal.night&&!pal.snow){for(const b of BUGS){const t2=gT*.35+b.p;const x=X+W*(.5+.48*Math.sin(t2*.9+b.p)),y=Y+H*(.45+.42*Math.sin(t2*1.3)*Math.cos(t2*.5));const fl=Math.abs(Math.sin(gT*14+b.p));const s=T*.13;
+    c.save();c.translate(x,y);c.rotate(Math.sin(t2)*.4);softShadow(c,0,T*.7,s,s*.3,.15);c.fillStyle=b.p<1?'#ff8ad8':b.p<3?'#ffd23f':'#7fd3ff';
+    for(const sg of [-1,1]){c.beginPath();c.ellipse(sg*s*.55*fl,-s*.15,s*.6*fl+1,s*.75,sg*.3,0,TAU);c.fill();c.lineWidth=Math.max(1,T*.02);c.strokeStyle=INK;c.stroke()}
+    c.fillStyle=INK;c.beginPath();c.ellipse(0,0,s*.13,s*.45,0,0,TAU);c.fill();c.restore()}}
+  if(!GFX.lite){c.save();c.globalCompositeOperation='lighter';c.globalAlpha=pal.night?.035:.05;for(let i=0;i<3;i++){const x=X+W*(.15+i*.33)+Math.sin(gT*.2+i)*T*.5;const g=c.createLinearGradient(x,Y-T,x+T*1.5,Y+H);g.addColorStop(0,'rgba(255,250,210,1)');g.addColorStop(1,'rgba(255,250,210,0)');
+    c.fillStyle=g;c.beginPath();c.moveTo(x,Y-T);c.lineTo(x+T*.8,Y-T);c.lineTo(x+T*2.6,Y+H);c.lineTo(x+T*1.2,Y+H);c.fill()}c.restore()}}
+
+function drawWorld(dt){const c=ctx;c.setTransform(L.dpr,0,0,L.dpr,0,0);
+  // adaptive quality: if frames get slow, drop the expensive extras
+  GFX.acc+=dt;GFX.n++;if(GFX.acc>2){const avg=GFX.acc/GFX.n;GFX.slow=avg>.024?GFX.slow+1:Math.max(0,GFX.slow-1);if(GFX.slow>=2)GFX.lite=true;GFX.acc=0;GFX.n=0}
+  buildBg();let sx=0,sy=0;if(shake>0){shake-=dt;sx=fxr(-1,1)*shake*12;sy=fxr(-1,1)*shake*12}
+  c.save();c.translate(sx,sy);c.drawImage(bg,0,0,L.W,L.H);
+  if(!R){c.restore();return}
+  const T=L.T;drawDecals(c,dt);
+  if(R.g==='pest'||R.g==='comp')drawPathArrows(c);
+  if(PAL[R.fi].night||PAL[R.fi].snow||PAL[R.fi].leaves){for(let i=0;i<16;i++){const k=i*97.3;
+    if(PAL[R.fi].night){const x=(Math.sin(gT*.3+k)*.5+.5)*COLS,y=(Math.cos(gT*.23+k*1.3)*.5+.5)*ROWS;const a=.5+.5*Math.sin(gT*3+k);c.save();c.globalCompositeOperation='lighter';const g=c.createRadialGradient(bx(x),by(y),0,bx(x),by(y),T*.16);g.addColorStop(0,'rgba(255,246,160,'+a+')');g.addColorStop(1,'rgba(255,246,160,0)');c.fillStyle=g;circ(c,bx(x),by(y),T*.16);c.fill();c.restore()}
+    else{const x=((k*.37+gT*.15)%1)*COLS*1.1-.3,y=((k*.71+gT*(PAL[R.fi].snow?.12:.08))%1)*ROWS;c.fillStyle=PAL[R.fi].snow?'#fff':(i%2?'#ff9a3d':'#ffd23f');c.globalAlpha=.85;
+      if(PAL[R.fi].snow){circ(c,bx(x),by(y),T*.045);c.fill()}else{c.beginPath();c.ellipse(bx(x),by(y),T*.08,T*.04,gT*2+k,0,TAU);c.fill()}c.globalAlpha=1}}}
+  if(UI.sel&&R.veg[UI.sel.i]===UI.sel)drawRange(c,UI.sel);
+  if(UI.drag){const dv=UI.drag.v;for(const v of R.veg)if(v&&canMerge(dv,v)){c.save();circ(c,bx(v.x),by(v.y),T*.48+Math.sin(gT*8)*T*.03);c.lineWidth=T*.07;c.strokeStyle='#ffe14d';c.shadowColor='#ffe14d';c.shadowBlur=T*.3;c.stroke();c.restore()}
+    const ci=cellAt(UI.drag.px,UI.drag.py);if(ci>=0&&R.P.beds.includes(ci)){c.fillStyle='rgba(255,255,255,.28)';rr(c,bx(ci%COLS)+T*.08,by(Math.floor(ci/COLS))+T*.08,T*.84,T*.84,T*.2);c.fill()}}
+  if(UI.mestDrag){for(const v of R.veg)if(v&&v.l<lvlCap()){circ(c,bx(v.x),by(v.y),T*.46);c.lineWidth=T*.05;c.strokeStyle='#ffe14d';c.stroke()}}
+  drawCrate(c,gT);
+  const ents=[];for(const v of R.veg)if(v&&!(UI.drag&&UI.drag.v===v))ents.push([v.y,0,v]);for(const p of R.pests)ents.push([p.y+(p.fly?.5:0),1,p]);
+  ents.sort((a,b)=>a[0]-b[0]);
+  for(const [,k,o] of ents){if(k===0){drawVeg(c,o.t,o.l,bx(o.x),by(o.y),T,gT,{pop:o.pop,att:o.att,ph:o.id});
+      if(R.waterT>0&&Math.random()<.05)fx('tear',o.x+fxr(-.3,.3),o.y-.55,{vy:1.6,life:.4});
+      if(o.l>=7&&Math.random()<.06)fx('star',o.x+fxr(-.4,.4),o.y+fxr(-.5,.2),{life:.6,sz:.12})}
+    else drawPest(c,o,T,gT)}
+  for(const s of R.shots)drawShot(c,s);
+  drawAmbient(c);
+  drawFX(c,dt);
+  if(UI.drag){const v=UI.drag.v;drawVeg(c,v.t,v.l,UI.drag.px,UI.drag.py-T*.2,T*1.12,gT,{ph:v.id})}
+  if(UI.mestDrag){drawMest(c,UI.mestDrag.px,UI.mestDrag.py,T*.5)}
+  if(R.waterT>0){c.fillStyle='rgba(76,195,255,'+(.08+.04*Math.sin(gT*6))+')';rr(c,L.bx,L.by,COLS*T,ROWS*T,T*.32);c.fill()}
+  if(R.stunT>0){c.save();c.globalCompositeOperation='lighter';c.fillStyle='rgba(180,220,255,'+(.08*Math.min(1,R.stunT))+')';c.fillRect(0,0,L.W,L.H);c.restore()}
+  c.restore()}
 
 /* ================= COACH: Poki-style onboarding =================
    Learn by doing: one action at a time, a pointing hand, a spotlight and a short line from Grandma.
@@ -1626,7 +1874,8 @@ function resize(){const W=window.innerWidth,H=window.innerHeight,dpr=Math.min(2,
   document.documentElement.style.setProperty('--topH',top+'px');document.documentElement.style.setProperty('--botH',bot+'px');
   L.bx=Math.round((W-COLS*L.T)/2);L.by=Math.round(top+(ah-ROWS*L.T)/2);bg=null;
   const nb=$('bNext');nb.style.top=Math.max(top-6,L.by-L.T*.3)+'px';
-  $('bGold').style.top=(L.by+L.T*.1)+'px';$('bGold').style.right=(W-L.bx-COLS*L.T+L.T*.1)+'px'}
+  const gb=$('bGold'),endTR=R&&R.P&&R.P.end[0]>=COLS-3&&R.P.end[1]<=1;gb.style.right=(W-L.bx-COLS*L.T+L.T*.1)+'px';
+  if(endTR){gb.style.top=(L.by+ROWS*L.T-L.T*.75)+'px';gb.style.right=(W-L.bx-COLS*L.T+L.T*1.1)+'px'}else gb.style.top=(L.by+L.T*.1)+'px'}
 function cellAt(px,py){const x=Math.floor((px-L.bx)/L.T),y=Math.floor((py-L.by)/L.T);if(x<0||y<0||x>=COLS||y>=ROWS)return -1;return y*COLS+x}
 
 /* ---------- screens ---------- */
